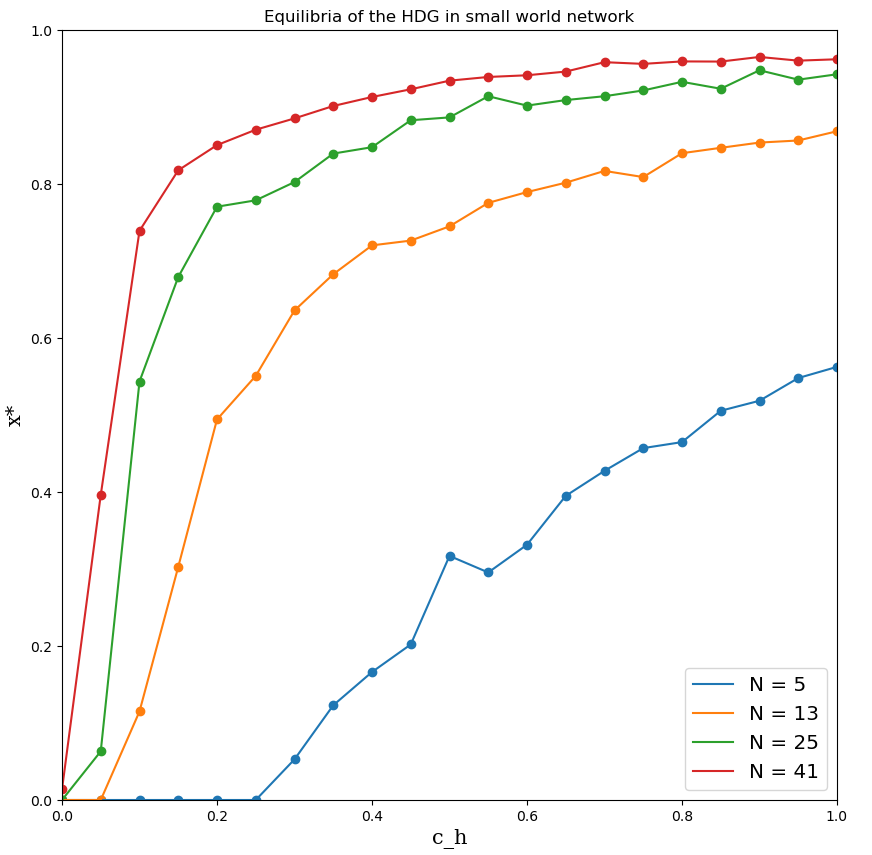
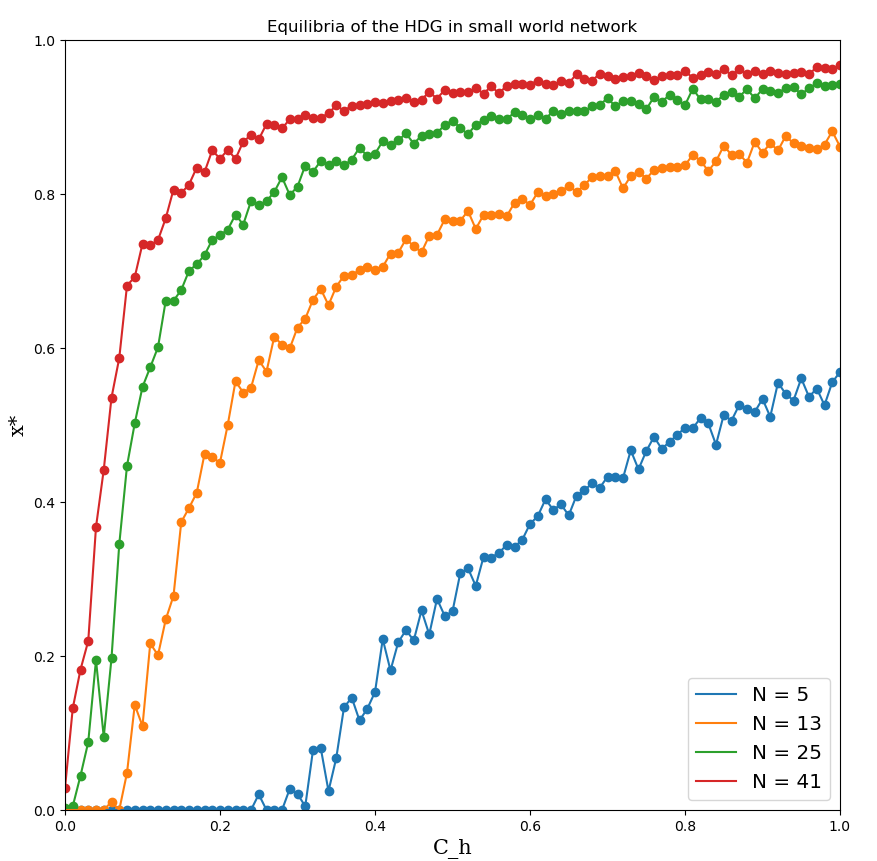
graph

diff --git a/network.py b/network.py
@@ -225,7 +225,7 @@ if __name__ == "__main__":
         x = 0.5
         radius_list = [i for i in range(1,5)]
         R = 1.0
-        c_h_list = [i/100 for i in range(0,101,2)]
+        c_h_list = [i/100 for i in range(0,101)]
         results = []
         mode = InfiniteNPlayerHDGNetworkDynamic.CONST_MODE_SW
         
